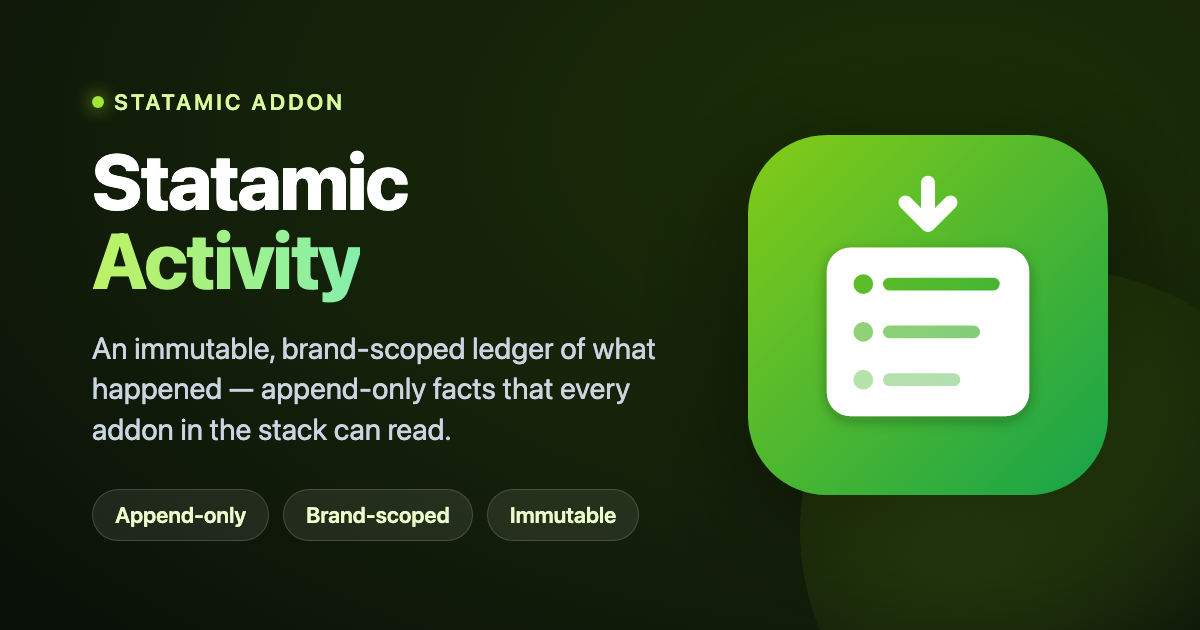
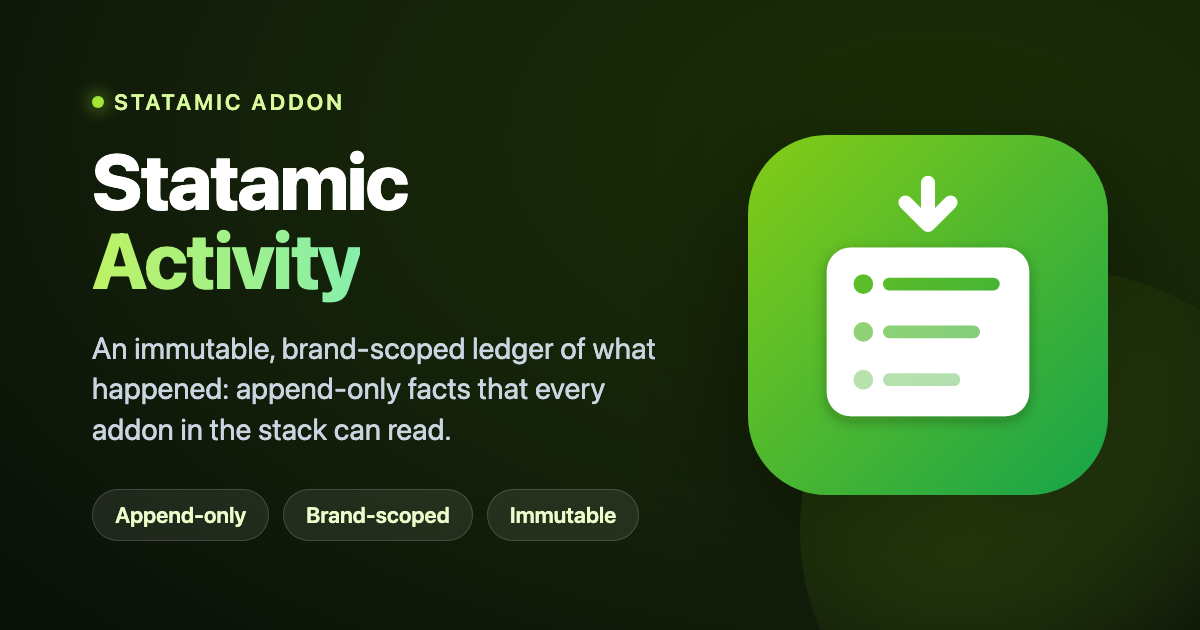
chore(art): Gedankenstrich aus Cover-Untertitel entfernen
Adrians Copy-Regel erlaubt in Marketingtexten keine Gedankenstriche.
Der Halbgeviertstrich im Untertitel ist durch einen Doppelpunkt aufgeloest,
nicht durch einen Bindestrich ersetzt.

Cover-PNG aus cover.html neu gerendert, Masse unveraendert bei 1200x630.

Changed region(s): [[0.185, 0.6032, 0.5242, 0.6333]]

diff --git a/art/cover.html b/art/cover.html
@@ -35,7 +35,7 @@
     <div class="copy">
       <span class="eyebrow"><span class="dot"></span>Statamic Addon</span>
       <h1>Statamic<br><span class="accent">Activity</span></h1>
-      <p class="sub">An immutable, brand-scoped ledger of what happened &mdash; append-only facts that every addon in the stack can read.</p>
+      <p class="sub">An immutable, brand-scoped ledger of what happened: append-only facts that every addon in the stack can read.</p>
       <div class="badges">
         <span class="badge">Append-only</span>
         <span class="badge">Brand-scoped</span>
